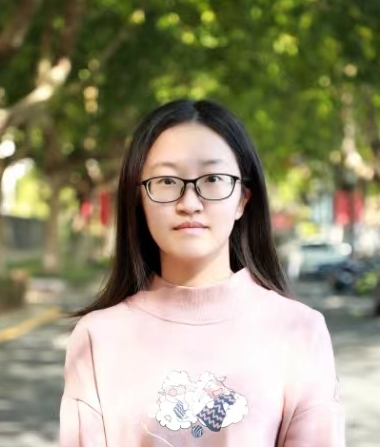
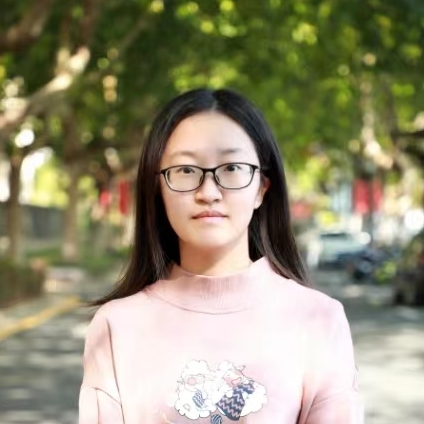
mod size photo

diff --git a/_authors/Yue-Lin_Sming_Tsai.md b/_authors/Yue-Lin_Sming_Tsai.md
@@ -4,7 +4,7 @@ zidingyi: 自我介绍
 name: Yue-Lin Sming Tsai
 location: China
 layout: people
-picture: /slurm/assets/authors/caiyuelin.png
+picture: /slurm/assets/authors/caiyuelin_p.jpg
 short_name: Yue-Lin Sming Tsai
 ---
 
